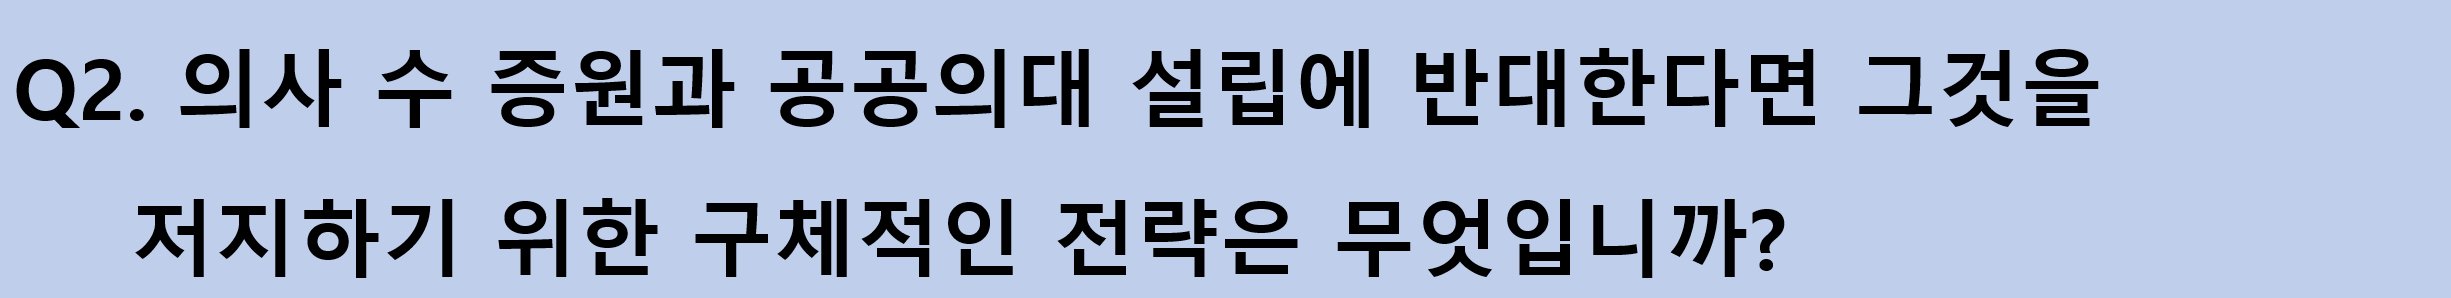
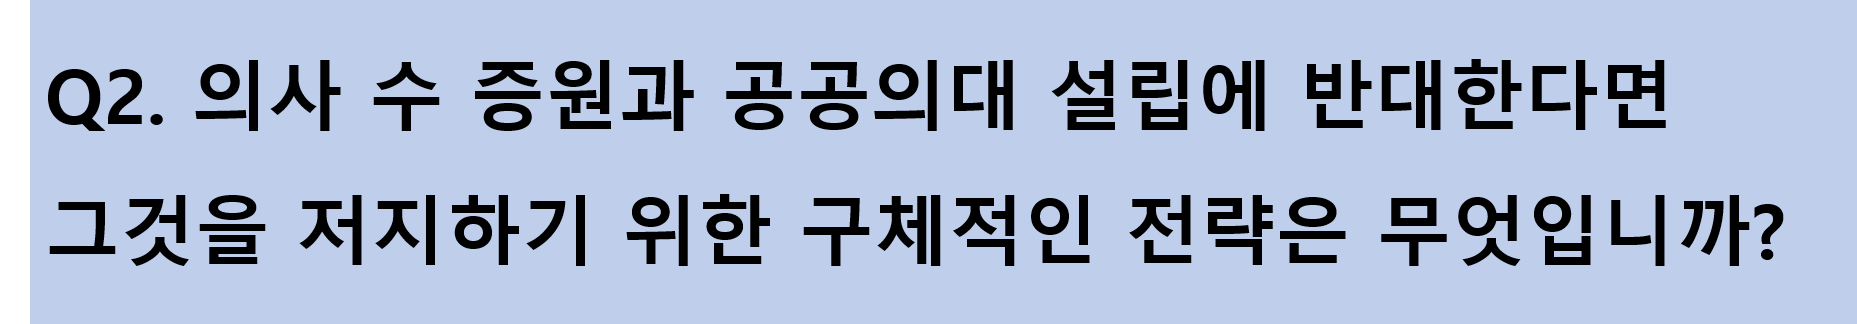
Add files via upload

Changed region(s): [[0.0, 0.0, 0.9682, 1.0]]

diff --git a/index.html b/index.html
@@ -25,6 +25,14 @@
         background: black;
     }
 
+    .question {
+        background: #A2B9E2;
+        font-size: xx-large;
+        padding: 10px;
+        color: black;
+        font-weight: bold;
+    }
+
     #top {
         display: grid;
         grid-template-columns: 1fr 3fr;
@@ -82,12 +90,16 @@
                     </div>
                 </div>
             </div>
-            <img src="Q01.png" width="100%">
+            <p class="question">
+                Q1. 작년에 소위 4대 의료악법 저지를 위한 투쟁이 있었습니다. 그 중 의사 수 증원과 공공의대 설립에 대한 후보님의 의견은 어떻습니까. 찬성한다면 그 이유와 반대한다면 그 이유를 간략하게 밝혀주세요.
+            </p>
         </div>
 
         <div id="blank">
             <img src="list.png" width="25%">
-            <img src="Q01.png" width="100%">
+            <p class="question">
+                Q1. 작년에 소위 4대 의료악법 저지를 위한 투쟁이 있었습니다. 그 중 의사 수 증원과 공공의대 설립에 대한 후보님의 의견은 어떻습니까. 찬성한다면 그 이유와 반대한다면 그 이유를 간략하게 밝혀주세요.
+            </p>
         </div>
 
         <div id="container">
